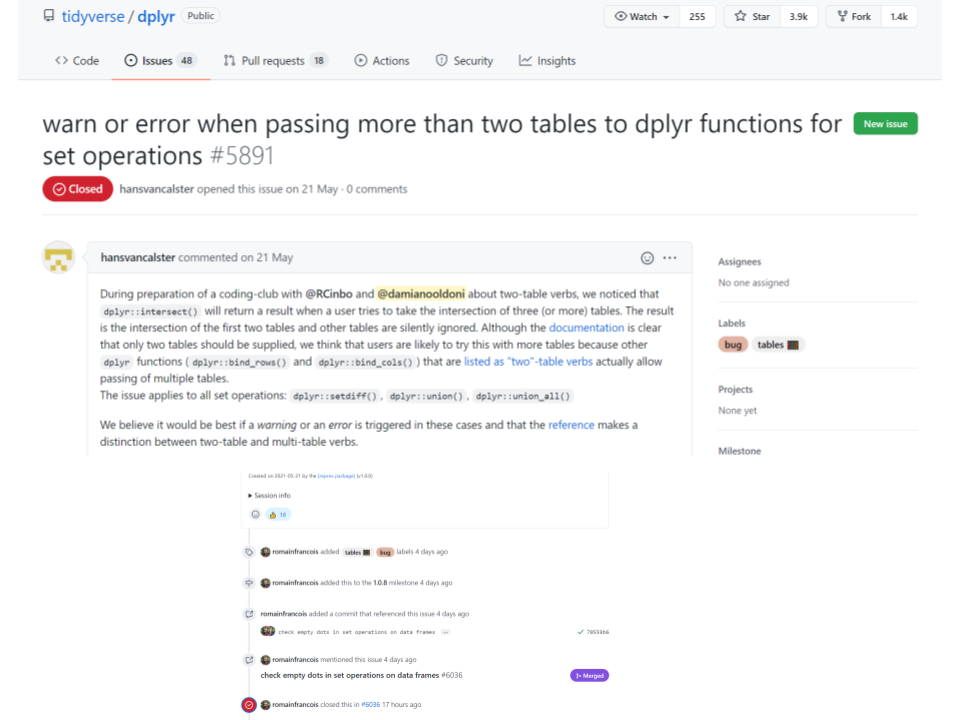
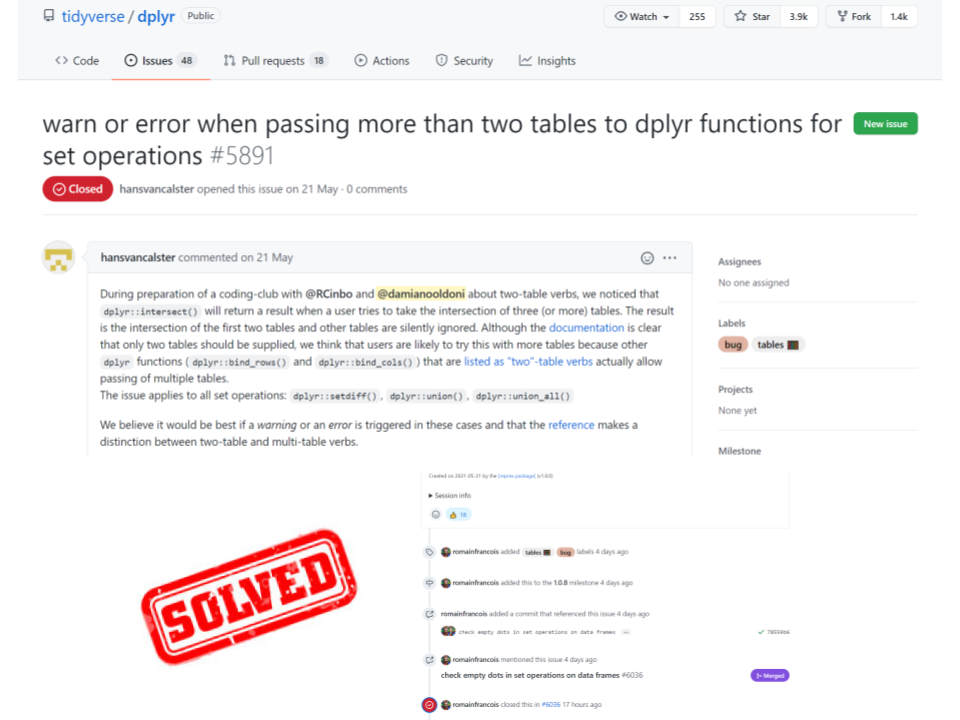
Update intro 20211026

Changed region(s): [[0.125, 0.6417, 0.6562, 1.0], [0.4375, 0.6417, 0.5625, 0.7333], [0.7812, 0.9167, 0.8438, 0.9472]]

diff --git a/docs/sessions/20211026_spatialdata_in_r.html b/docs/sessions/20211026_spatialdata_in_r.html
@@ -36,9 +36,20 @@ class: left, top
 ---
 class: left, top
 
-While preparing the coding club of May, we found a bug in `dplyr` package: https://github.com/tidyverse/dplyr/issues/5891#event-5404935191
+## Introduction: open software
+
+While preparing the coding club of May, we found [this](https://github.com/tidyverse/dplyr/issues/5891#event-5404935191) bug in `dplyr` package
 
 ![:scale 80%]({{ site.baseurl}}/assets/images/20211026/20211026_issue_solved_dplyr.png)
+
+---
+class: left, top
+
+## Introduction: open software
+
+While preparing the coding club of September, we found [this](https://github.com/plotly/plotly.R/issues/2031) bug in `plotly` package
+
+![:scale 80%]({{ site.baseurl}}/assets/images/20211026/20211026_issue_solved_plotly.png)
 
 R and its packages are not static: software is written by humans. And humans can make errors. If you find something wrong in a R package, please contact the package maintainer!<br>
 Open software: it's good for you, for us, for everyone.
